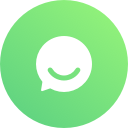
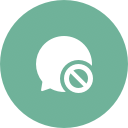
修复禁言相关的问题

diff --git a/new-web/src/pages/Home.vue b/new-web/src/pages/Home.vue
@@ -55,15 +55,15 @@ export default {
         }
       },
       unprohibitItem: {
-        icon: require('../assets/images/unprohibited.png'), label: this.$t('home.op_mute'),
+        icon: require('../assets/images/unprohibited.png'), label: this.$t('home.op_unmute'),
         click: async (evt) => {
           evt.preventDefault()
-          await this.GLOBAL.api.property.create(true)
+          await this.GLOBAL.api.property.create(false)
           this.builtinItems.splice(4, 1, this.prohibitItem)
         }
       },
       prohibitItem: {
-        icon: require('../assets/images/prohibited.png'), label: this.$t('home.op_unmute'),
+        icon: require('../assets/images/prohibited.png'), label: this.$t('home.op_mute'),
         click: async (evt) => {
           evt.preventDefault()
           await this.GLOBAL.api.property.create(true)
@@ -130,9 +130,9 @@ export default {
     },
     updateProhibitedState() {
       if (this.isProhibited) {
-        this.builtinItems.push(this.prohibitItem)
-      } else {
         this.builtinItems.push(this.unprohibitItem)
+      } else {
+        this.builtinItems.push(this.prohibitItem)
       }
     }
   }

diff --git a/new-web/src/api/account.js b/new-web/src/api/account.js
@@ -38,13 +38,18 @@ const Account = {
     return resp
   },
 
-  create_wx_pay: async function () {
-    let resp = await api.post('/wxpay/create', {}, {})
+  config: async function () {
+    let resp = await api.post('/wechat', {}, {})
+    return resp
+  },
+
+  create_wx_pay: async function (params) {
+    let resp = await api.post('/wechat/pay/create', params, {})
     return resp
   },
 
   check_wx_pay: async function (order_id) {
-    let resp = await api.get(`/wxpay/${order_id}`, {}, {})
+    let resp = await api.get(`/wechat/pay/${order_id}`, {}, {})
     return resp
   },
 

diff --git a/new-web/vue.config.js b/new-web/vue.config.js
@@ -1,4 +1,7 @@
 module.exports = {
+  devServer: {
+    disableHostCheck: true,
+  },
   configureWebpack: {
     resolve: {
       alias: {
